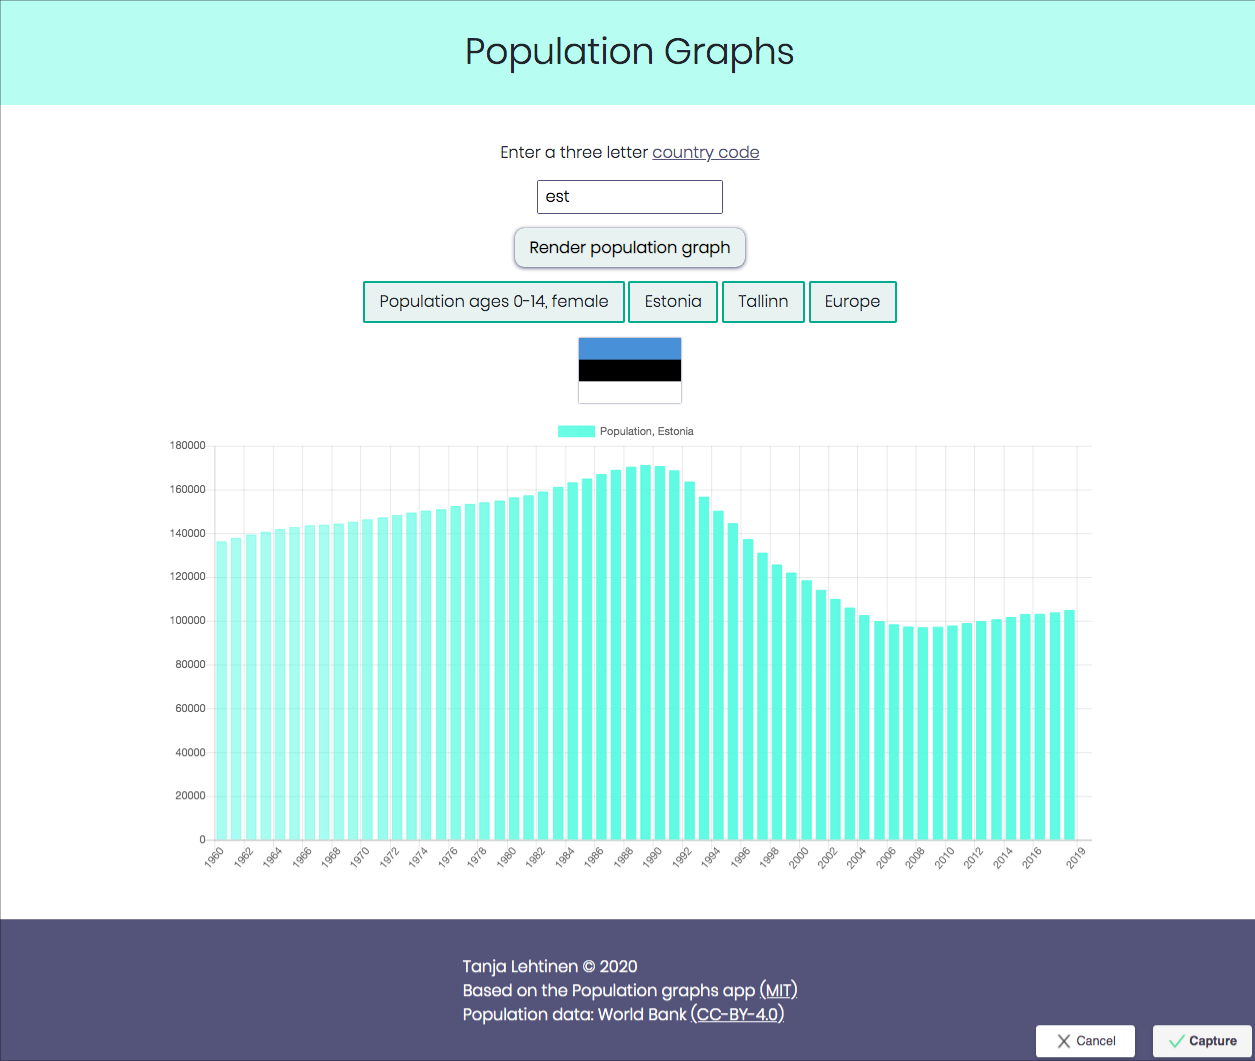
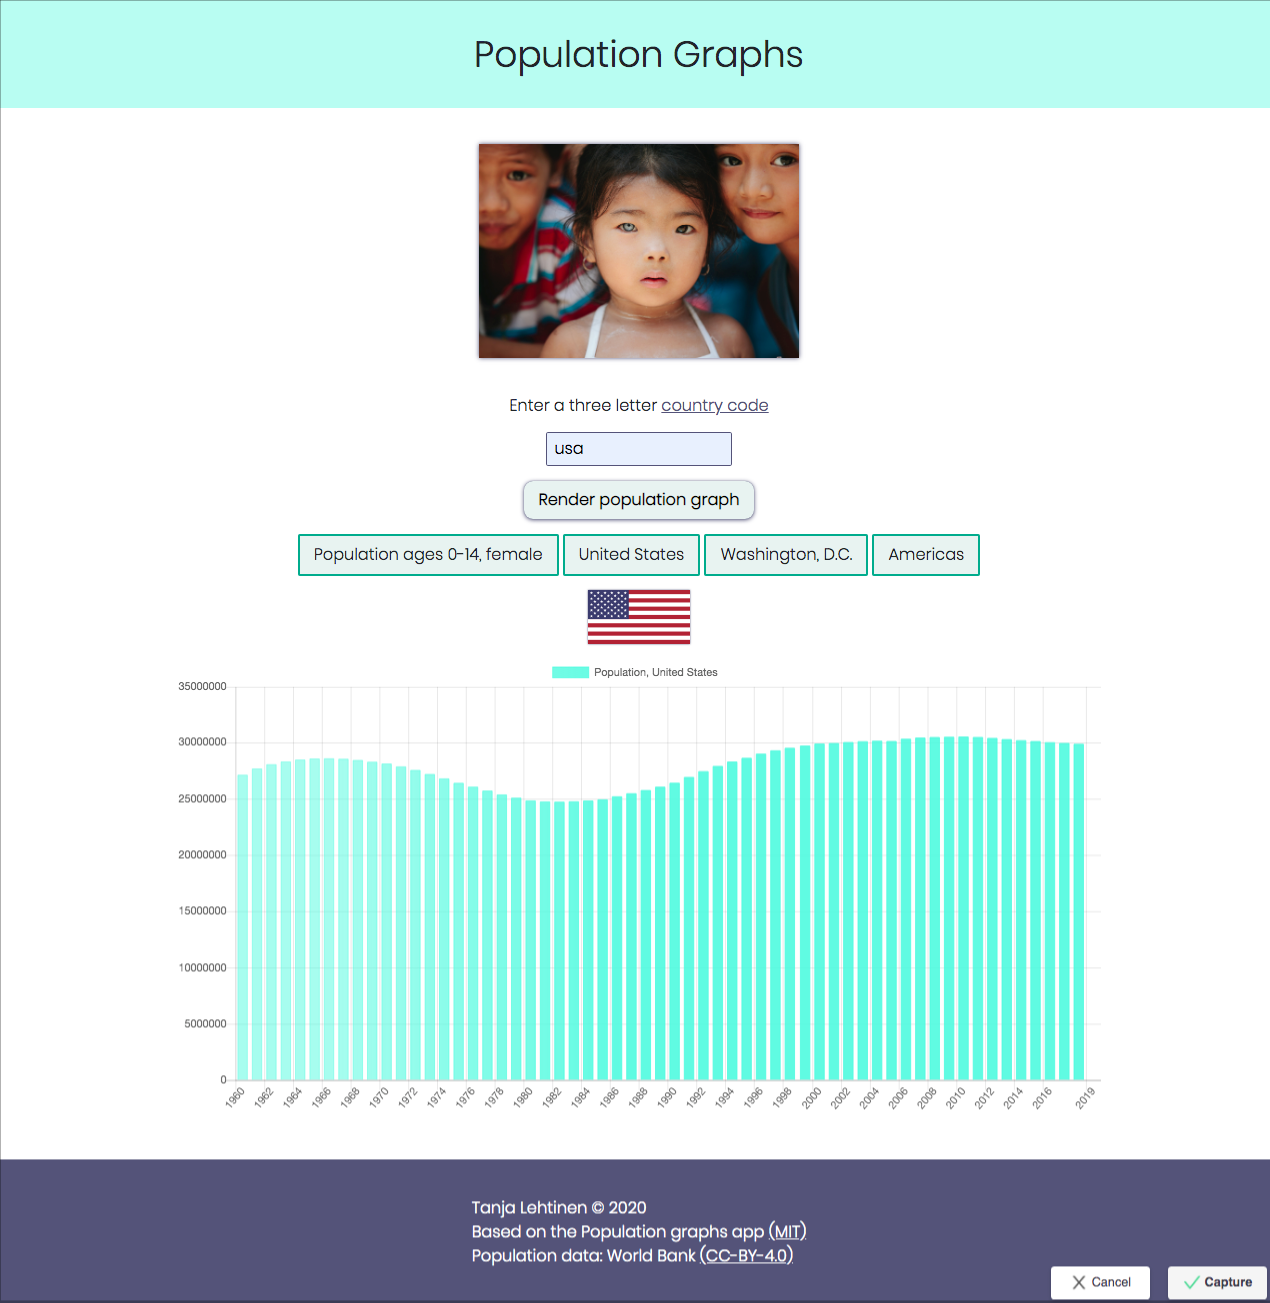
added an image and a new screenshot

Changed region(s): [[0.0, 0.0311, 1.0, 1.0]]

diff --git a/styles.css b/styles.css
@@ -19,6 +19,14 @@ header {
   align-items: center;
 }
 
+.girl {
+  width: 25vw;
+  margin-bottom: 5vh;
+  box-shadow: 0 0 5px #545479;
+}
+
+/* Photo by Karl Fredrickson on Unsplash */
+
 a {
   color: #545479;
   text-decoration: underline;

diff --git a/index.html b/index.html
@@ -25,6 +25,7 @@
 			<header>
 				<h1>Population Graphs</h1>
 			</header>
+			<img class="girl" src="karl-fredrickson-3rb_hH3qzio-unsplash.jpg" alt="children in Manila, Philippines">
 			<p>
 				Enter a three letter
 				<a
